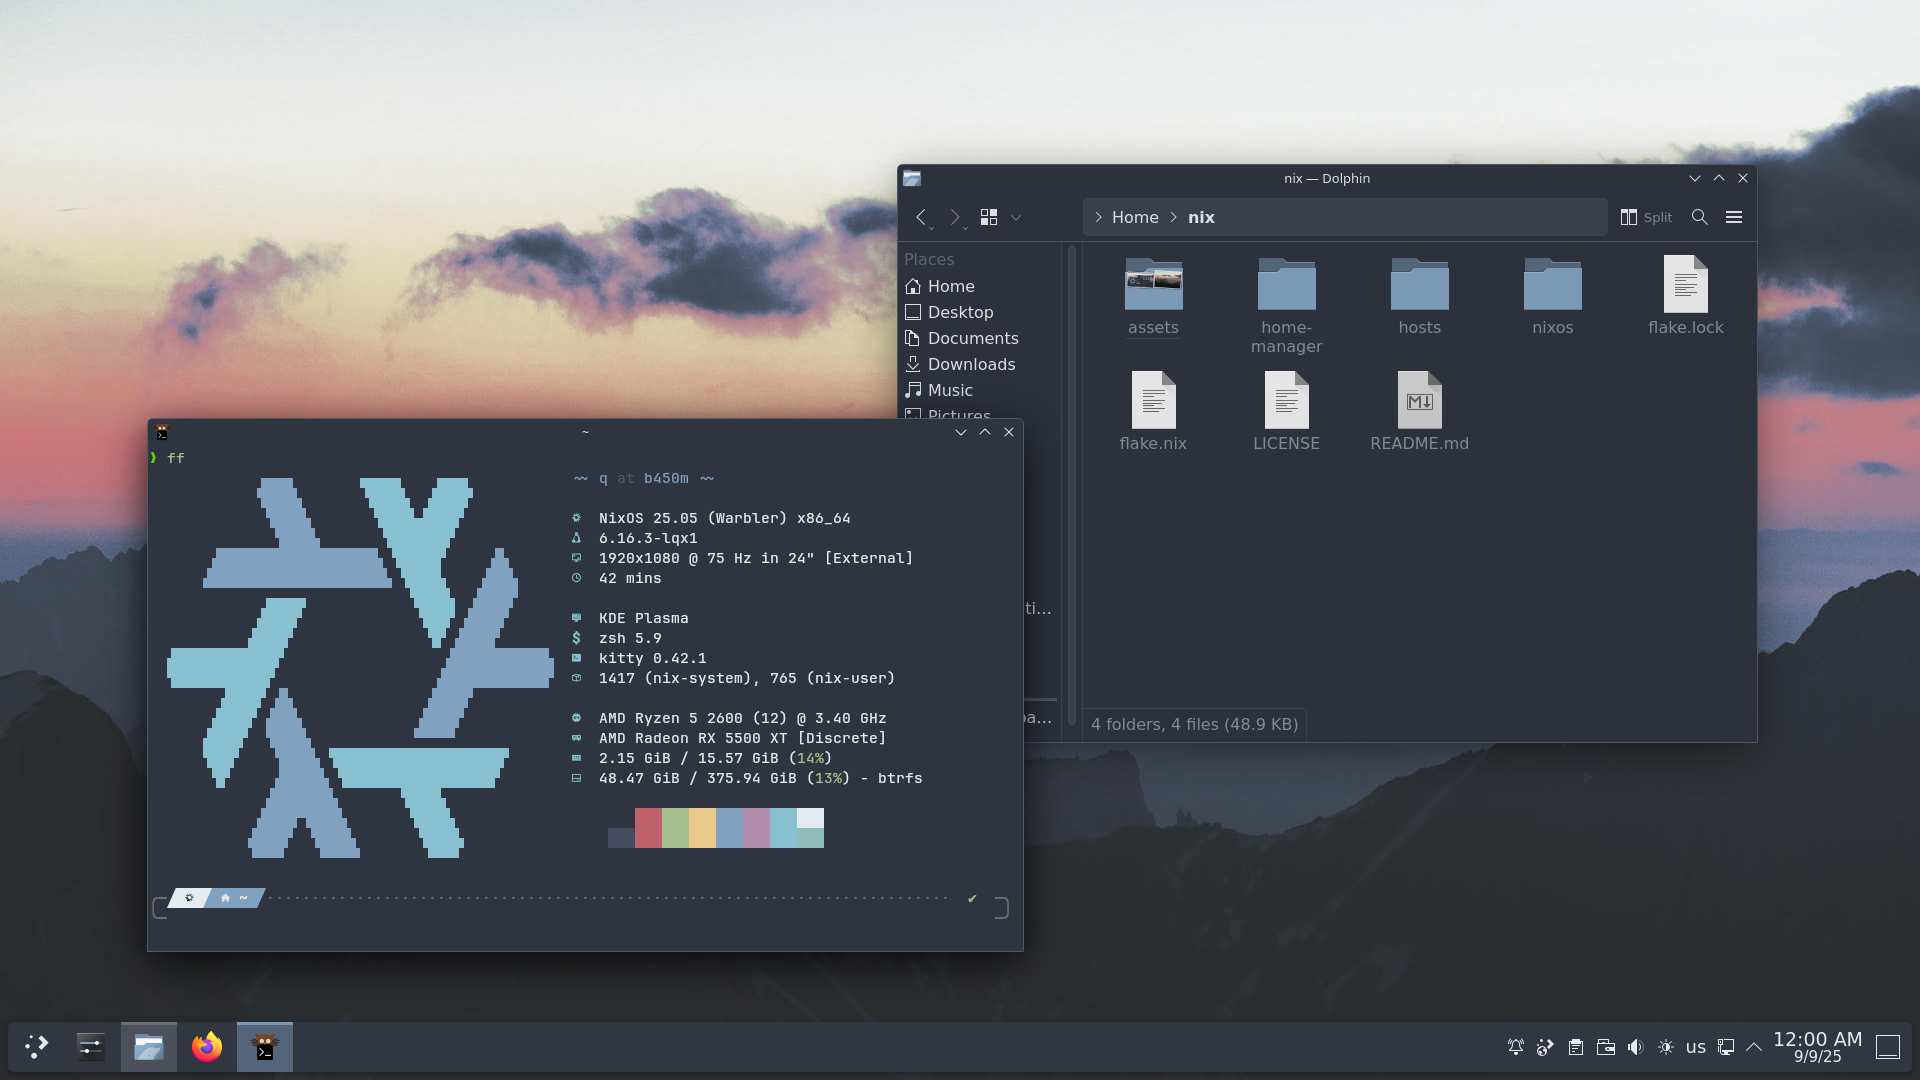
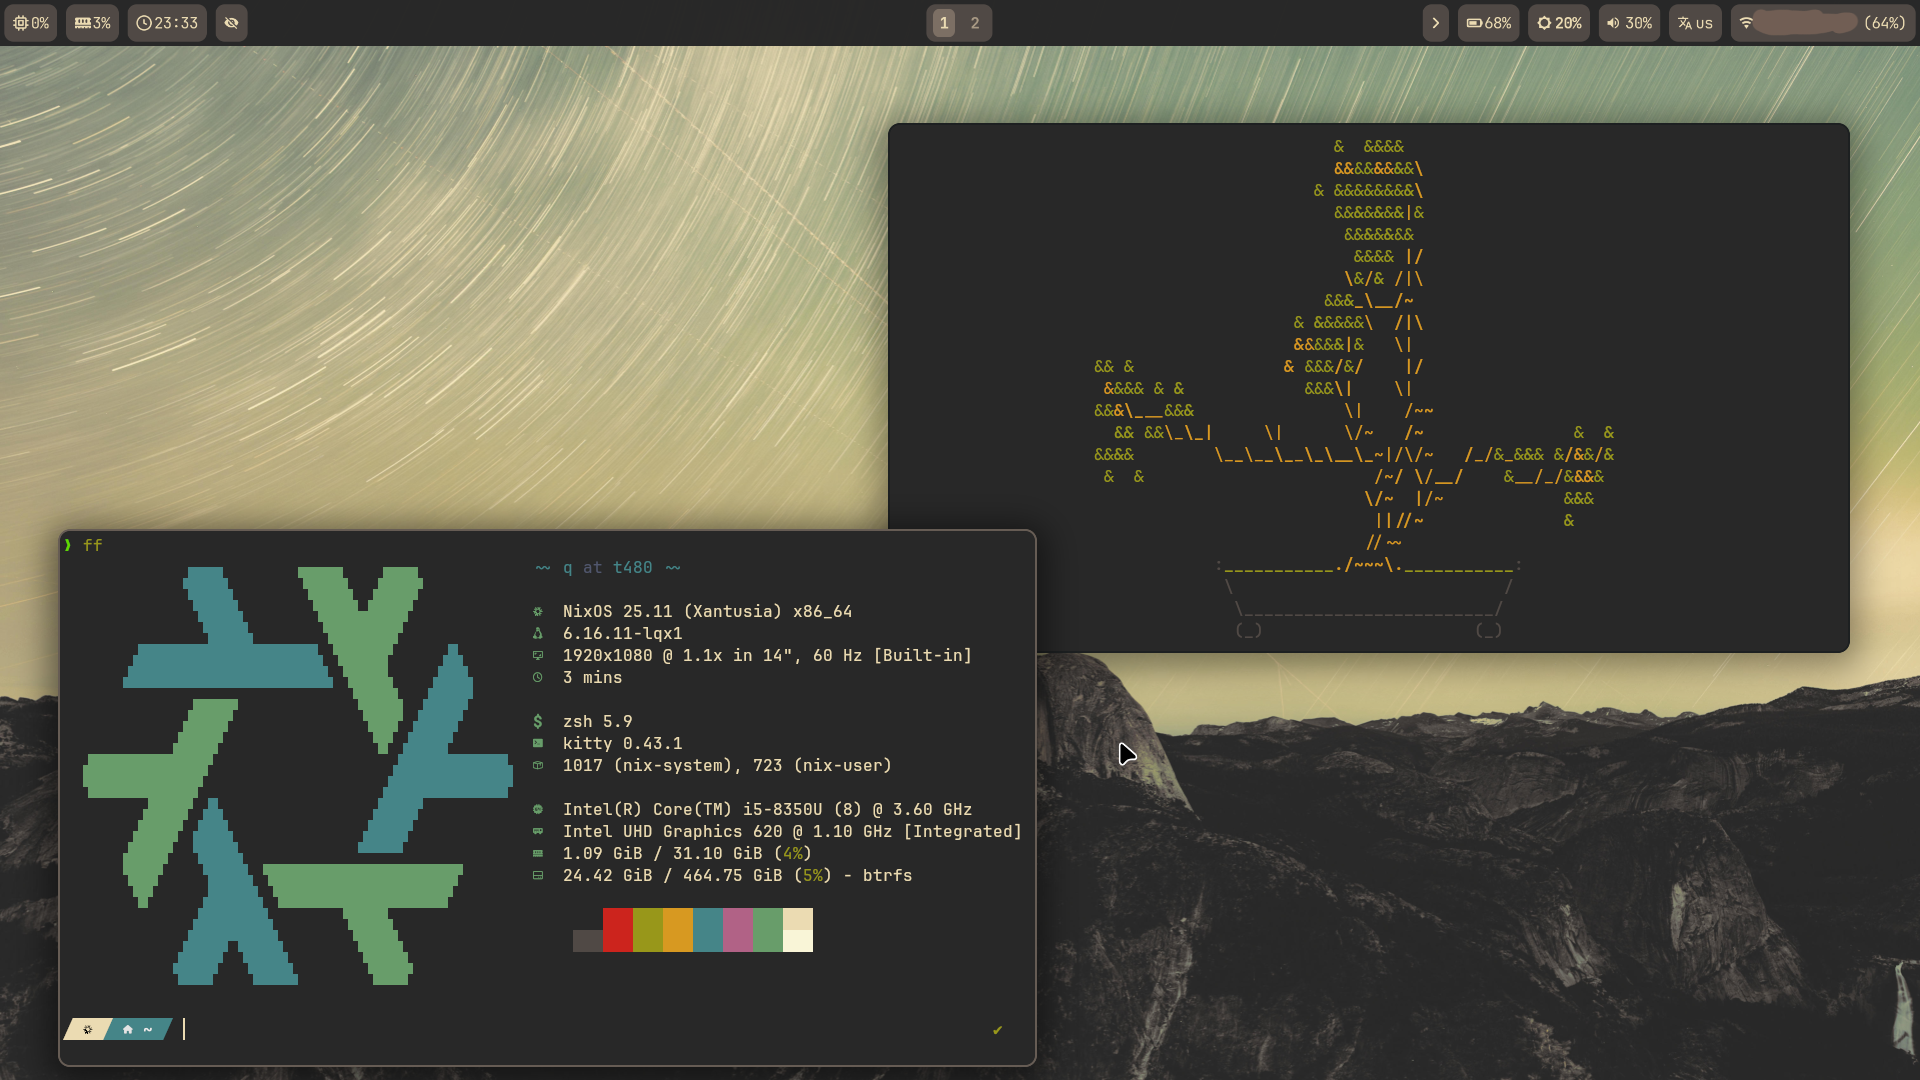
Update screenshot and README

diff --git a/README.md b/README.md
@@ -6,9 +6,9 @@ My awesome NixOS configuration inspired by [Ampersand's flake](https://github.co
 
 ## ✨ Features
 - 💻 **Multi-Host**: ease of configuration for different PCs/hosts.
-- 🎨 **Themes**: a lot of [color palettes](https://github.com/tinted-theming/schemes) that you can use for supported apps with [Stylix](https://nix-community.github.io/stylix/configuration.html#handmade-schemes).
+- 🎨 **Theme**: [Gruvbox](https://github.com/morhetz/gruvbox) Dark, which expands to a lot of apps with [Stylix](https://nix-community.github.io/stylix/installation.html).
 - 🏠 **Home Manager**: lots of configured stuff which is same on different hosts.
-- 👣 **Desktop Environment**: KDE Plasma. 
+- 👣 **Desktop**: [niri](https://github.com/yalter/niri) scrolling/tiling Wayland compositor. 
 - ✍ **Code editor**: Themed VSCode with Vim emulation.
 - 🛠 **Shell**: zsh with powerlevel10k and bare minimum of plugins.
 
@@ -65,8 +65,7 @@ Then reboot and you are good to go!
 
 ## 👍 Tips and tricks
 1. After installing this configuration you can easily rebuild system and Home Manager with aliases declared in `home-manager/modules/shell.nix`.
-2. You can change color palette in `home-manager/modules/stylix.nix`. I also have included the link to available palettes and guide how to apply them.
-3. After installing apps via `home-packages` you need to re-login or new apps will not show.
+2. After installing apps via `home-packages` you need to re-login or new apps will not show.
 
 ## 🤝 Credits
 - **BIG THANKS** ❤ to [**Ampersand**](https://github.com/Andrey0189). Because I am new in NixOS, I mostly inspired by his configuration and video-guide ([Russian](https://youtu.be/watch?v=HOq7XTygAAU) and [English](https://youtu.be/watch?v=nLwbNhSxLd4)).
